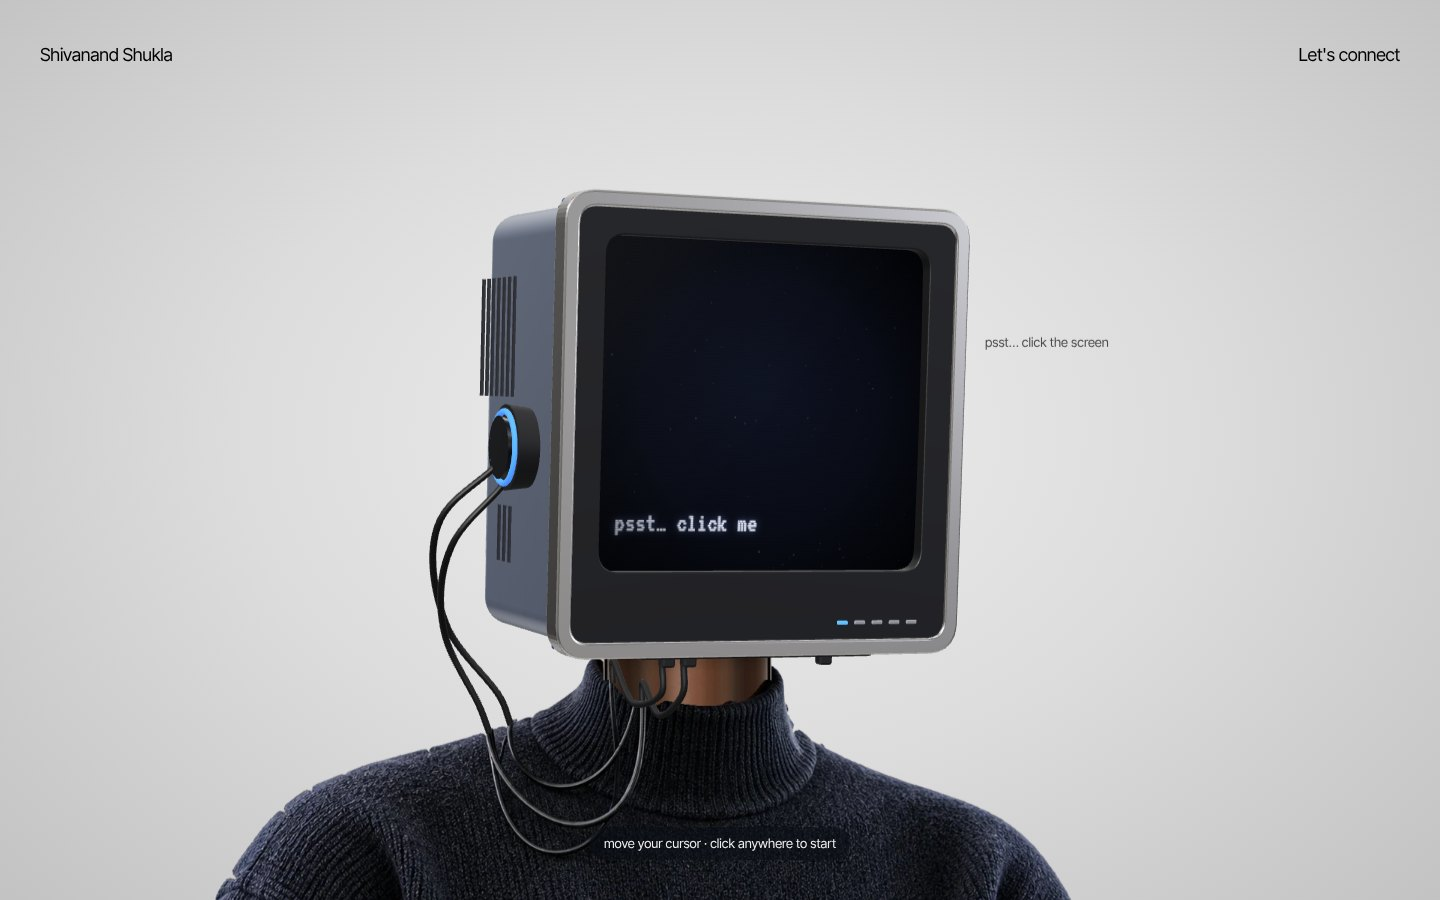
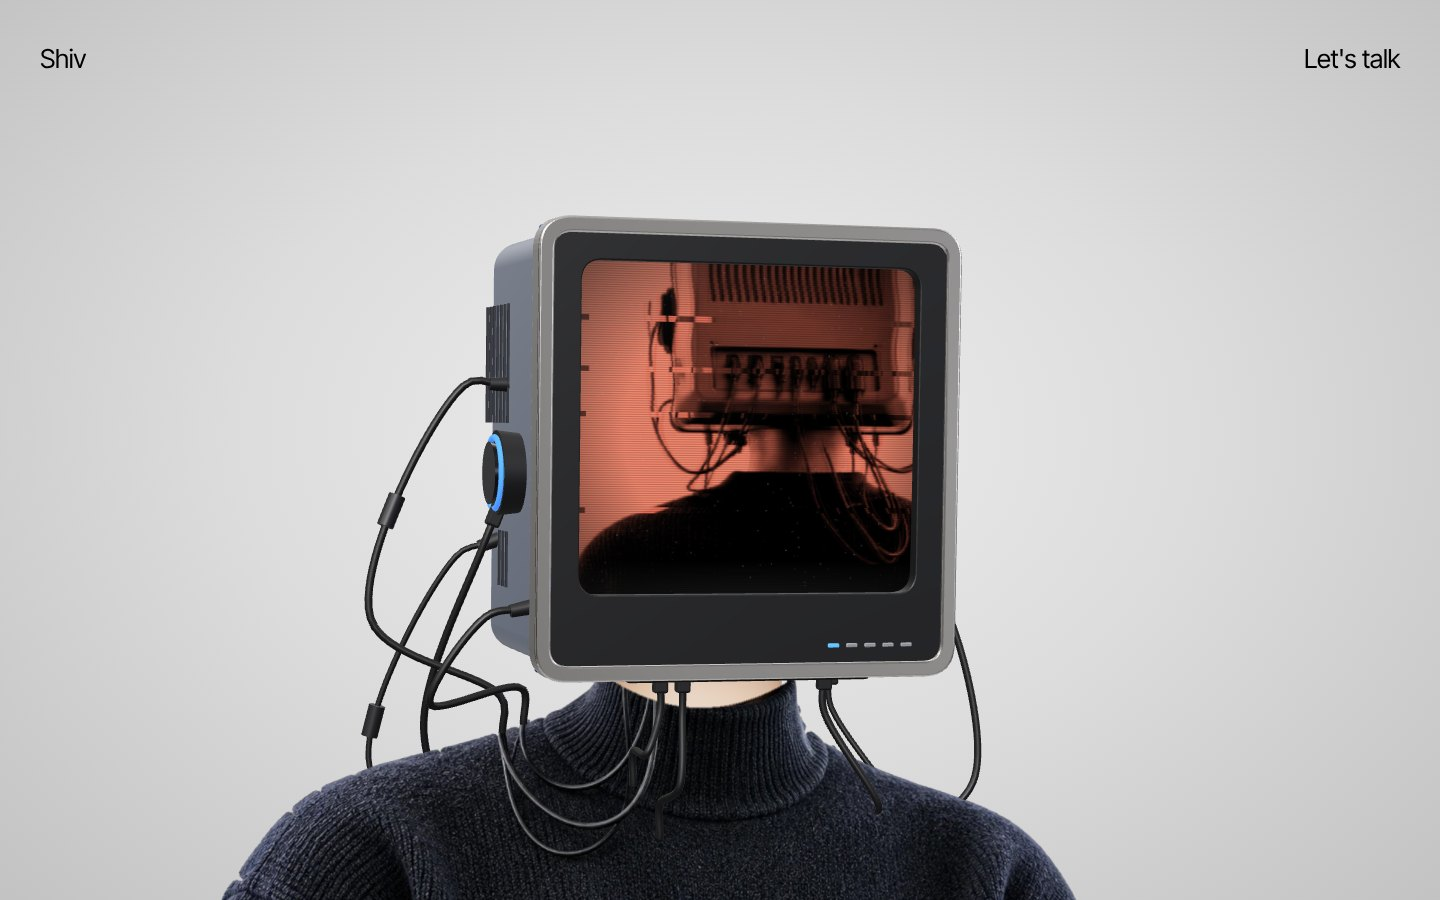
docs: screen pictures guide and fresh screenshots
Claude-Session: https://claude.ai/code/session_01Njde7LgyVWfPtT7ghrssVF

Changed region(s): [[0.125, 0.1867, 0.7812, 1.0], [0.9062, 0.0311, 0.9688, 0.0933], [0.0312, 0.0311, 0.0938, 0.0933]]

diff --git a/README.md b/README.md
@@ -19,6 +19,10 @@ Everything the site says lives in [`src/hero/content.ts`](src/hero/content.ts): 
 
 The conversation is a small graph. Each entry in `dialogue` has the `lines` the character types and the reply `options` the visitor can pick. To build out a real "work" section later, give the `work` node new lines and options; no component needs to change. An optional `link` shows under a reply once it has typed.
 
+## Change the pictures on the screen
+
+Before anyone clicks, the screen flashes pictures for a few seconds, broadcast in CRT colours with glitches. They are listed in `screen.images` in `src/hero/content.ts`. Put your own photos in `public/screen/` and add their paths there; `pixel:heart`, `pixel:bulb`, `pixel:spark` and `pixel:hi` are built in.
+
 ## Change the timing
 
 Every duration (nudges, typing speed, the slide, blinks, the head's lag) is a named constant in [`src/hero/timings.ts`](src/hero/timings.ts).
